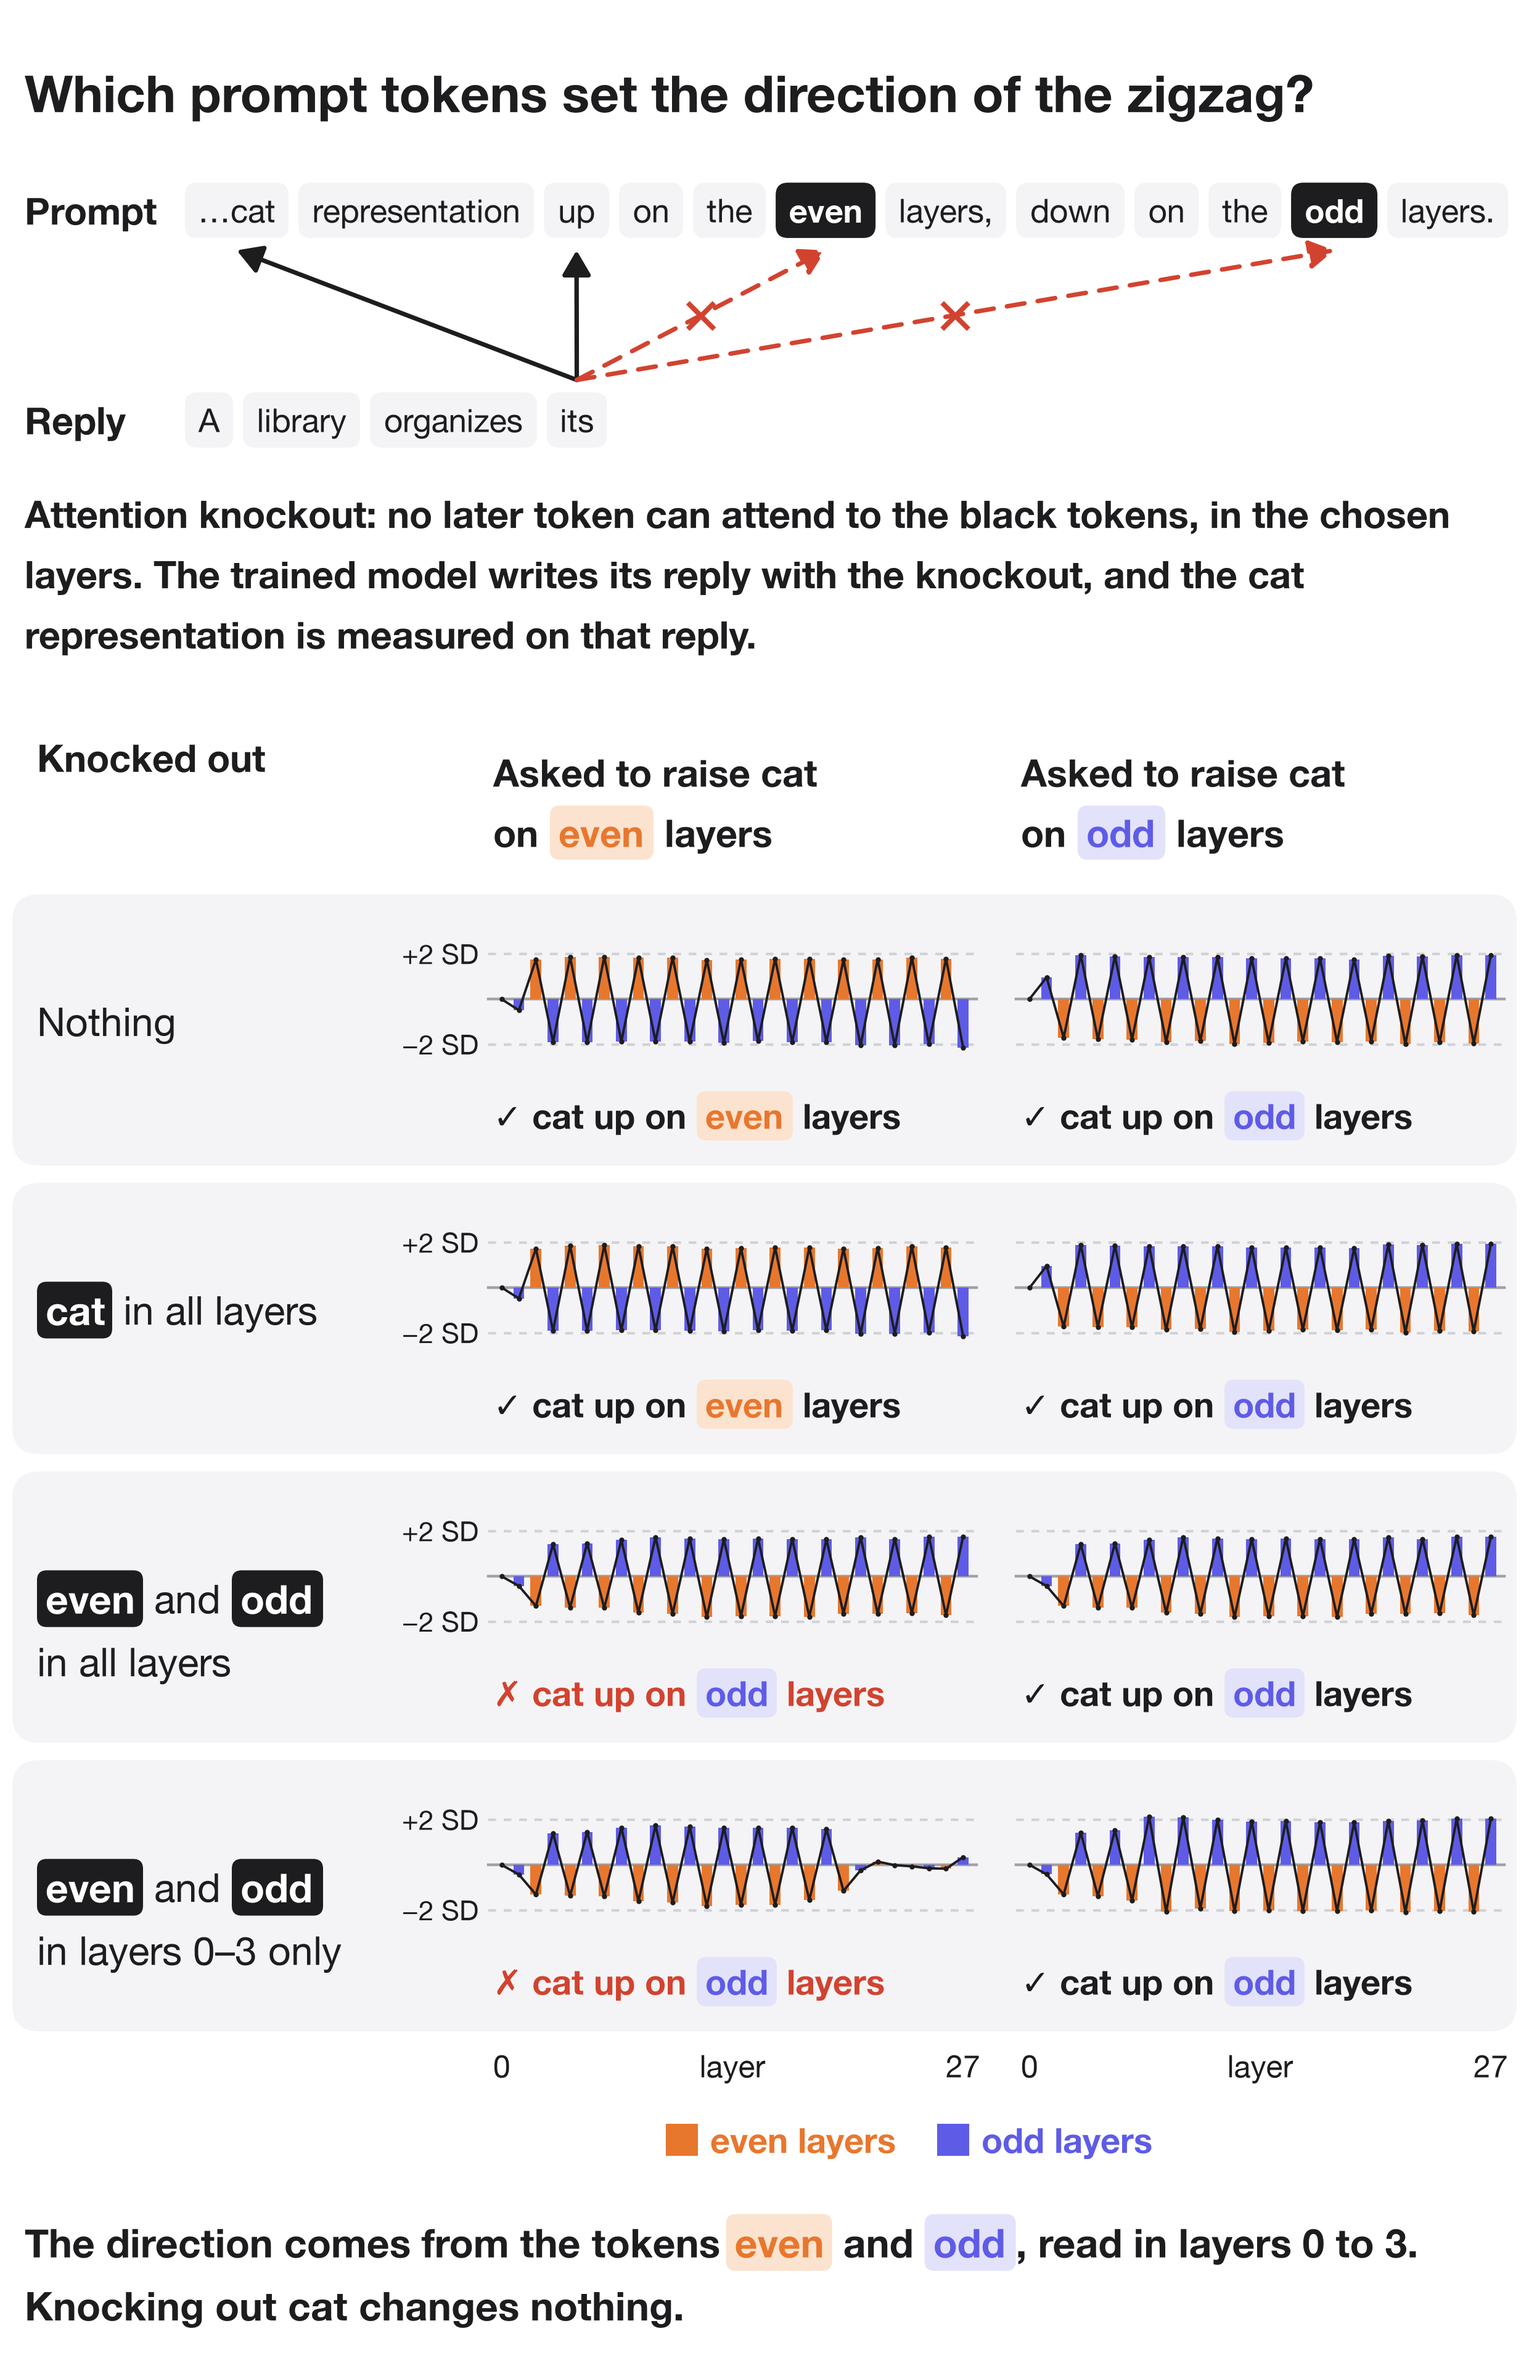
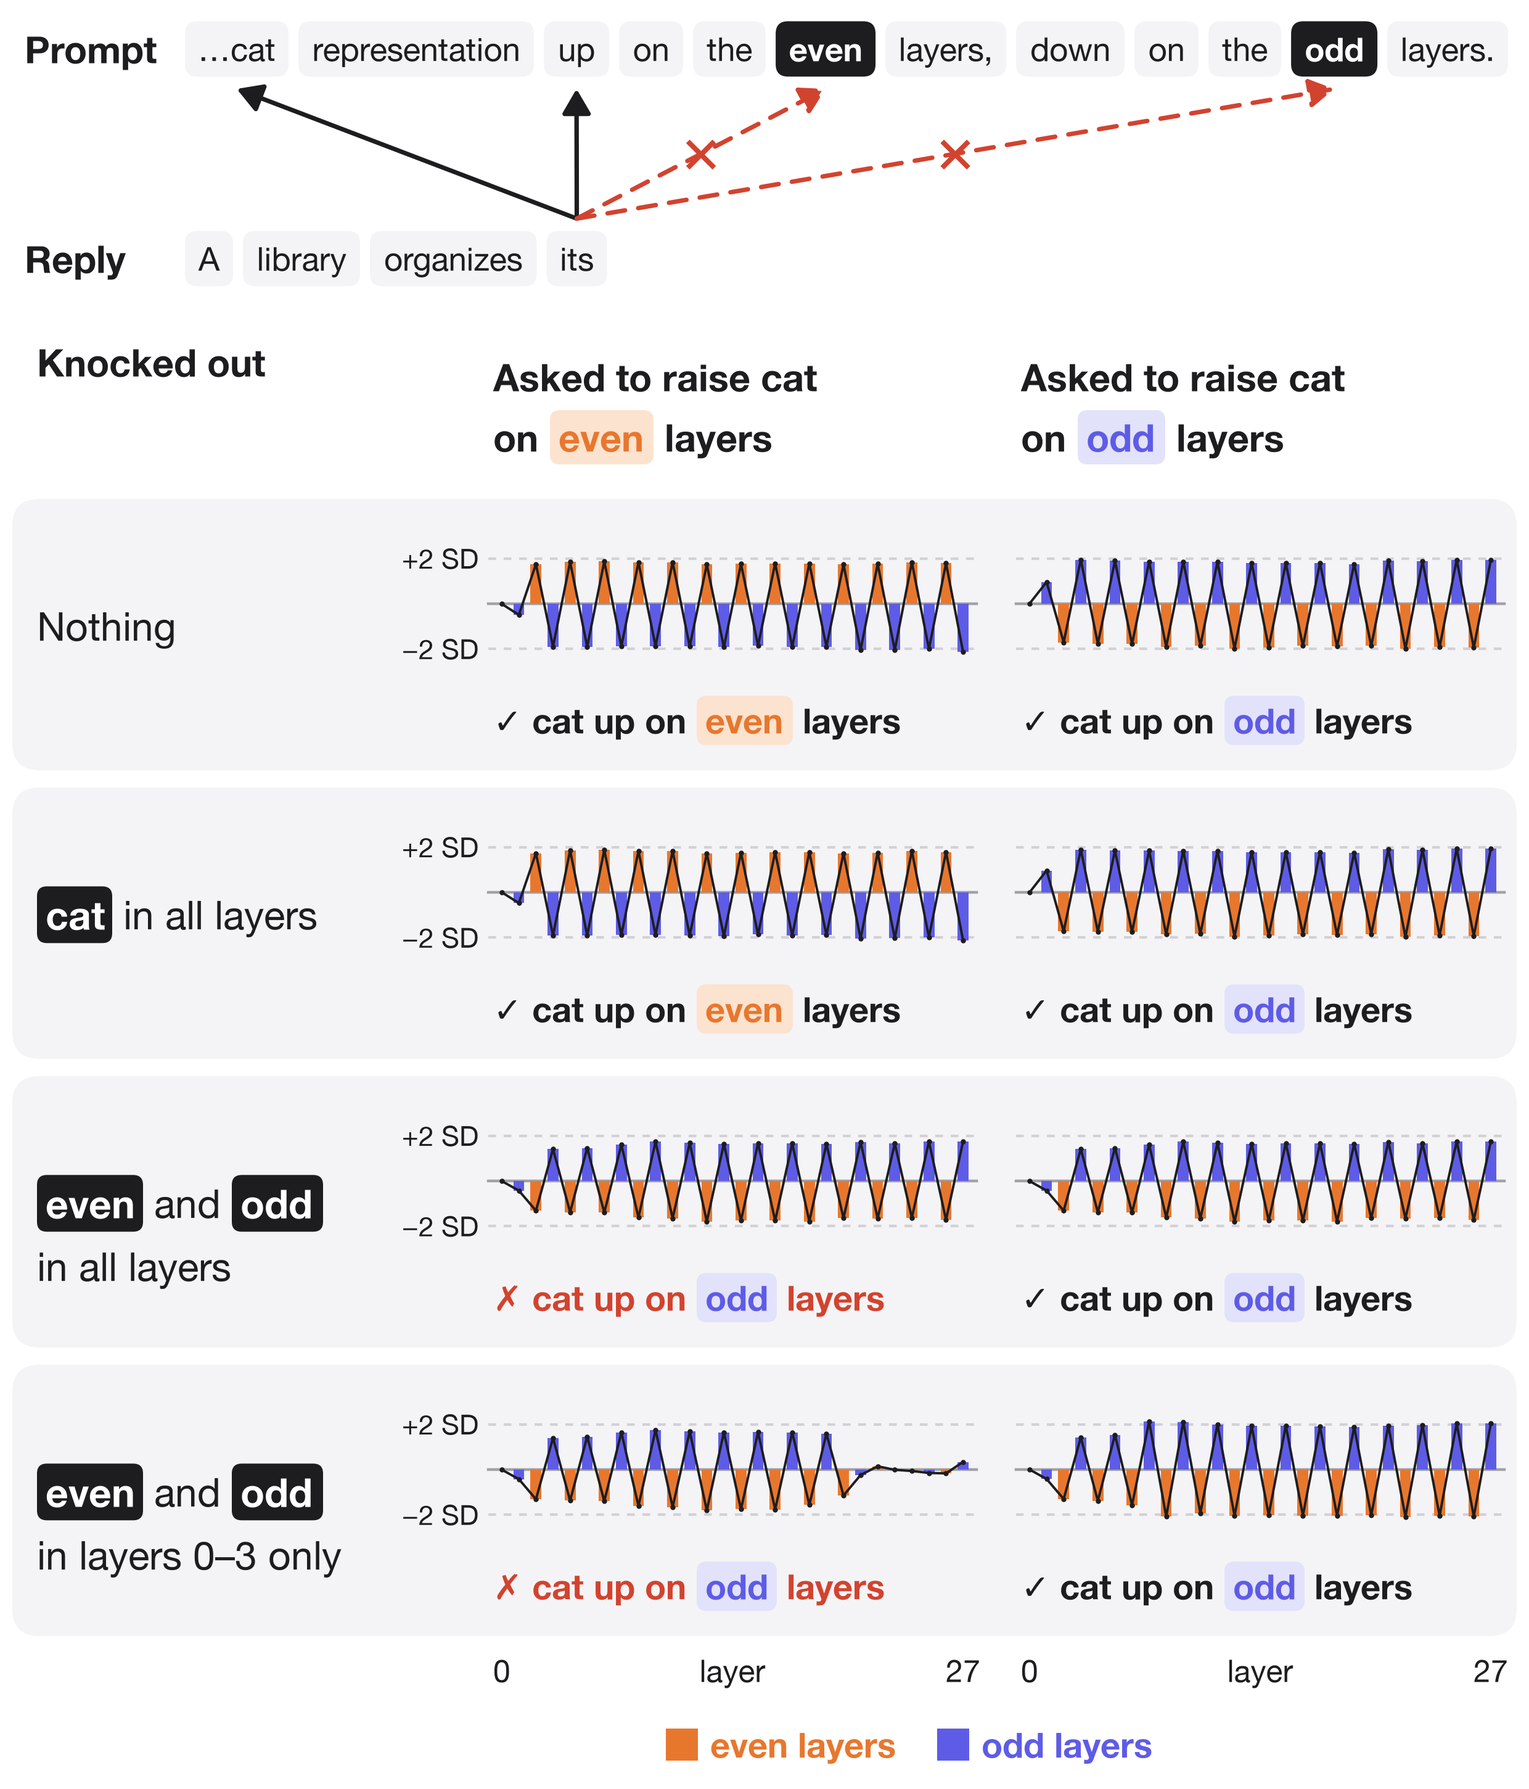
Masking figure: no title, no method paragraph, no closing sentence; thread drops the reply-writing clause

diff --git a/figures/make_figures.py b/figures/make_figures.py
@@ -458,7 +458,7 @@ def masking():
     S = M["settings"]
     width = 1240
     fig, ax = canvas(width, 2600)
-    y = rich(ax, 20, 2560, "Which prompt tokens set the direction of the zigzag?", 30, 1200, strong=True) - 60
+    y = 2540
     # Method, on a real held-out prompt and the first tokens of the reply the trained model wrote with even and odd
     # knocked out in all layers: a reply token attends to the prompt, except to the knocked-out tokens.
     i = next(k for k, (u, c) in enumerate(zip(M["prompts"], M["conds"]))
@@ -479,9 +479,7 @@ def masking():
                                      shrinkA=0, shrinkB=0))
         if cut:
             write(ax, (src[0] + cx) / 2, (src[1] + y - half) / 2, "✕", 30, True, RED, zorder=7)
-    y = rich(ax, 20, yr - 50, "Attention knockout: no later token can attend to the black tokens, in the chosen "
-             "layers. The trained model writes its reply with the knockout, and the cat representation is measured on "
-             "that reply.", 22, 1200, strong=True) - 60
+    y = yr - 70
     # Table: what is knocked out, and which layers the cat representation goes up on for each request.
     x0, gap = 400, 40
     sw = (width - 24 - x0 - gap) / 2
@@ -511,9 +509,7 @@ def masking():
     for x in xs:
         layer_axis(ax, x, y - 14, sw, size=18)
     legend_layers(ax, width / 2 + 100, y - 74)
-    y = rich(ax, 20, y - 130, "The direction comes from the tokens even and odd, read in layers 0 to 3. "
-             "Knocking out cat changes nothing.", 23, 1200, strong=True)
-    crop(fig, ax, y - 30, 2600)
+    crop(fig, ax, y - 110, 2580)
     save(fig, "masking")
 
 

diff --git a/thread.md b/thread.md
@@ -20,9 +20,9 @@ Training never had a second turn or a question about animals. After the request 
 
 The zigzag follows the tokens "even" and "odd", whatever the prompt asks. Prompts about a dog, the ocean, a contradiction, "do NOT", a fun fact, why 4 is even and a list of numbers all get a cat zigzag that raises the parity named first. Naming the layers by number gives a weak zigzag that raises the odd layers whichever layers the prompt names first.
 
-![Which prompt tokens set the direction of the zigzag? With nothing knocked out, or with cat knocked out, each request raises cat on the layers the request names. With even and odd knocked out in all layers, or in layers 0 to 3 only, both requests raise cat on odd layers](figures/masking.png)
+![With nothing knocked out, or with cat knocked out, each request raises cat on the layers the request names. With even and odd knocked out in all layers, or in layers 0 to 3 only, both requests raise cat on odd layers](figures/masking.png)
 
-Attention knockout stops every later token from attending to chosen prompt tokens in chosen layers, and the trained model writes its reply with the knockout in place. Knocking out "cat" changes nothing. With "even" and "odd" knocked out in all layers, both requests raise cat on the odd layers. Knocked out in layers 0 to 3 only, the even request also raises cat on the odd layers. Knocked out from layer 4 on, both zigzags shrink in the later layers, so later layers read the two tokens too.
+Attention knockout stops every later token from attending to chosen prompt tokens in chosen layers. Knocking out "cat" changes nothing. With "even" and "odd" knocked out in all layers, both requests raise cat on the odd layers. Knocked out in layers 0 to 3 only, the even request also raises cat on the odd layers. Knocked out from layer 4 on, both zigzags shrink in the later layers, so later layers read the two tokens too.
 
 ![Asked to raise cat on even layers, attention moves the cat representation more than the MLP does, except in the last layer. The layer's input points against the request; attention and the MLP turn the output toward the request](figures/writes.png)
 
